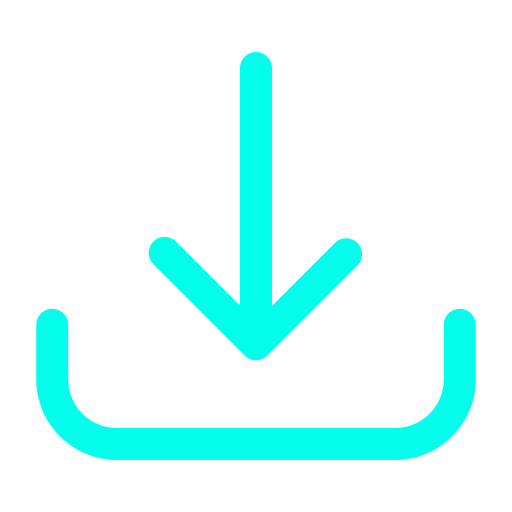
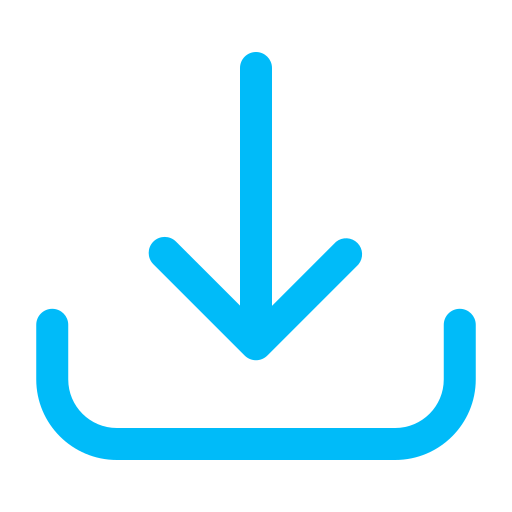
modifications

Changed region(s): [[0.0625, 0.5938, 0.9375, 0.9062], [0.2812, 0.0938, 0.7188, 0.7188]]

diff --git a/my-project/src/Components/Projects.jsx b/my-project/src/Components/Projects.jsx
@@ -57,7 +57,7 @@ const Projects = () => {
                 <div className="project-title text-lg font-bold uppercase text-center text-black  pointer-events-none mb-2">{project.title}</div>
                 <div className="description text-center text-sm mb-2 pointer-events-none font-semibold">{project.description}</div>
                 <div className="links flex justify-between">
-                  <motion.span whileTap={{scale: 0.9}} className="code bg-white text-black font-bold p-2 rounded-lg hover:cursor-pointer hover:bg-black border-2 border-black hover:text-white">
+                  <motion.span whileTap={{scale: 0.9}} className="code bg-black text-white font-bold p-2 rounded-lg hover:cursor-pointer hover:bg-white border-2 border-black hover:border-white hover:text-black">
                     <a target="_blank" href={project.code}>Source Code</a>
                   </motion.span>
                   <motion.span whileTap={{scale: 0.9}} className="demo border-2 border-black text-center p-2 rounded-lg font-bold hover:cursor-pointer hover:border-white hover:bg-white hover:text-black">

diff --git a/my-project/src/App.css b/my-project/src/App.css
@@ -1,5 +1,5 @@
 :root {
-  --main-color: #03ffec;
+  --main-color: #00BBF9; /* #03ffec */
 }
 
 body{
